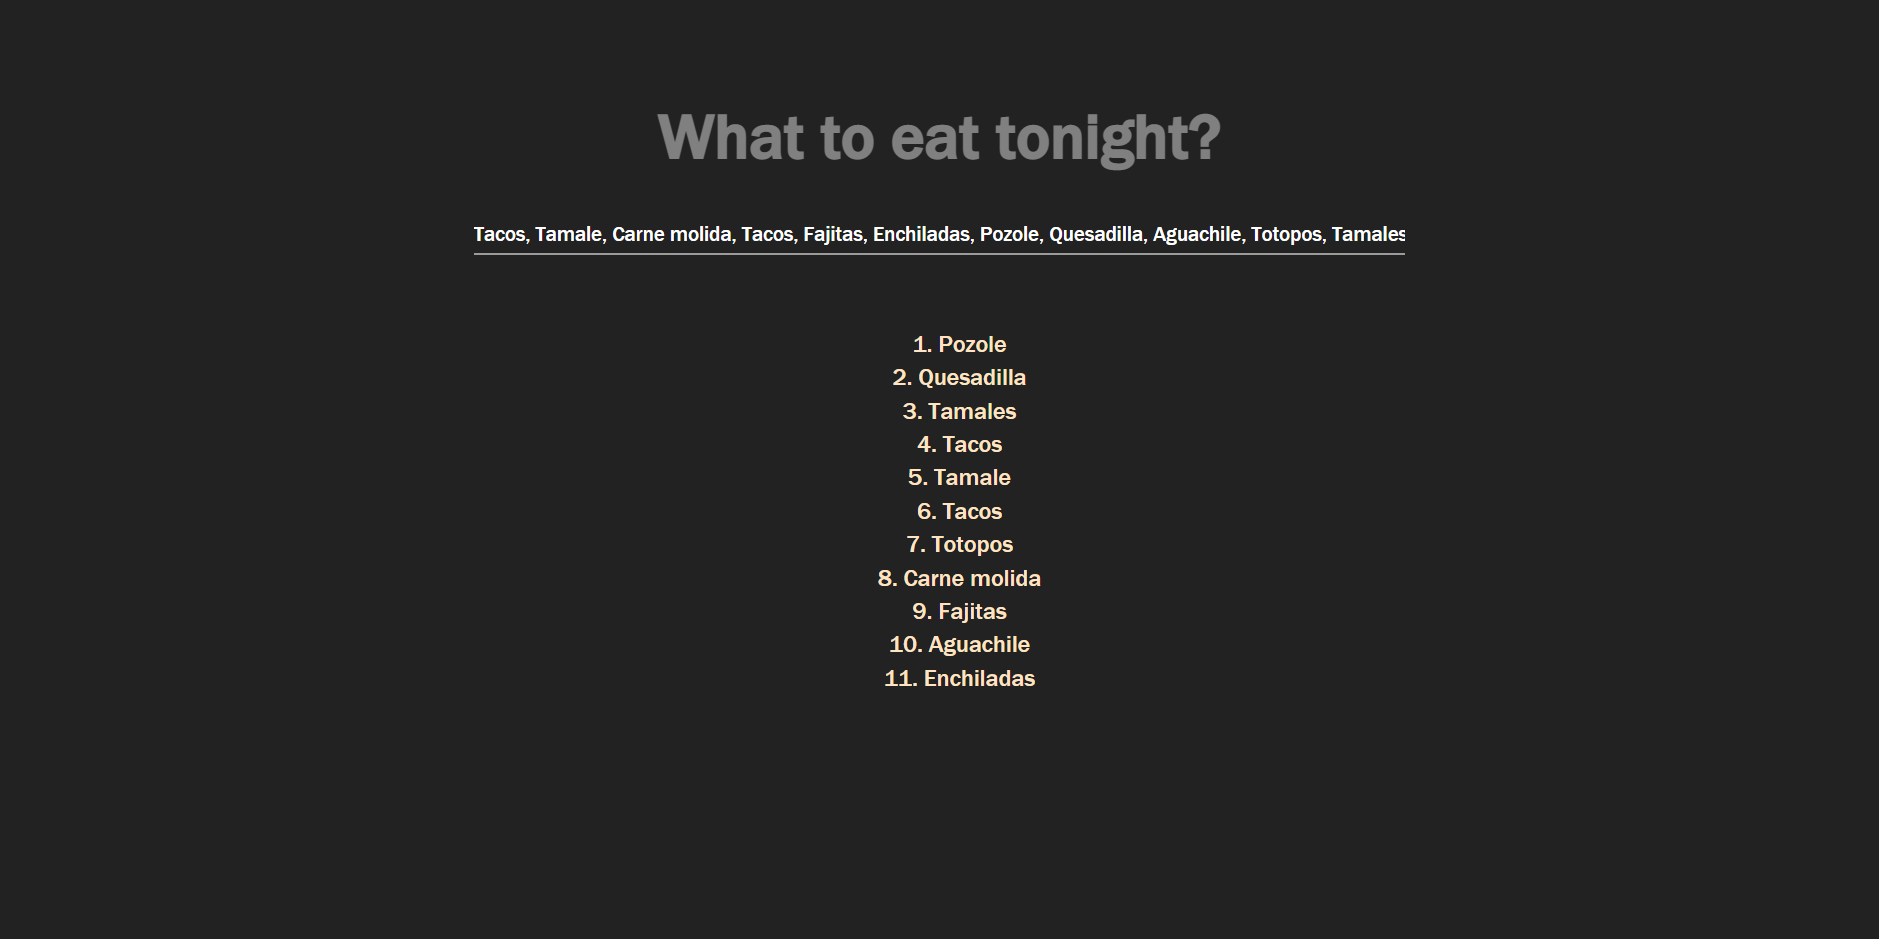
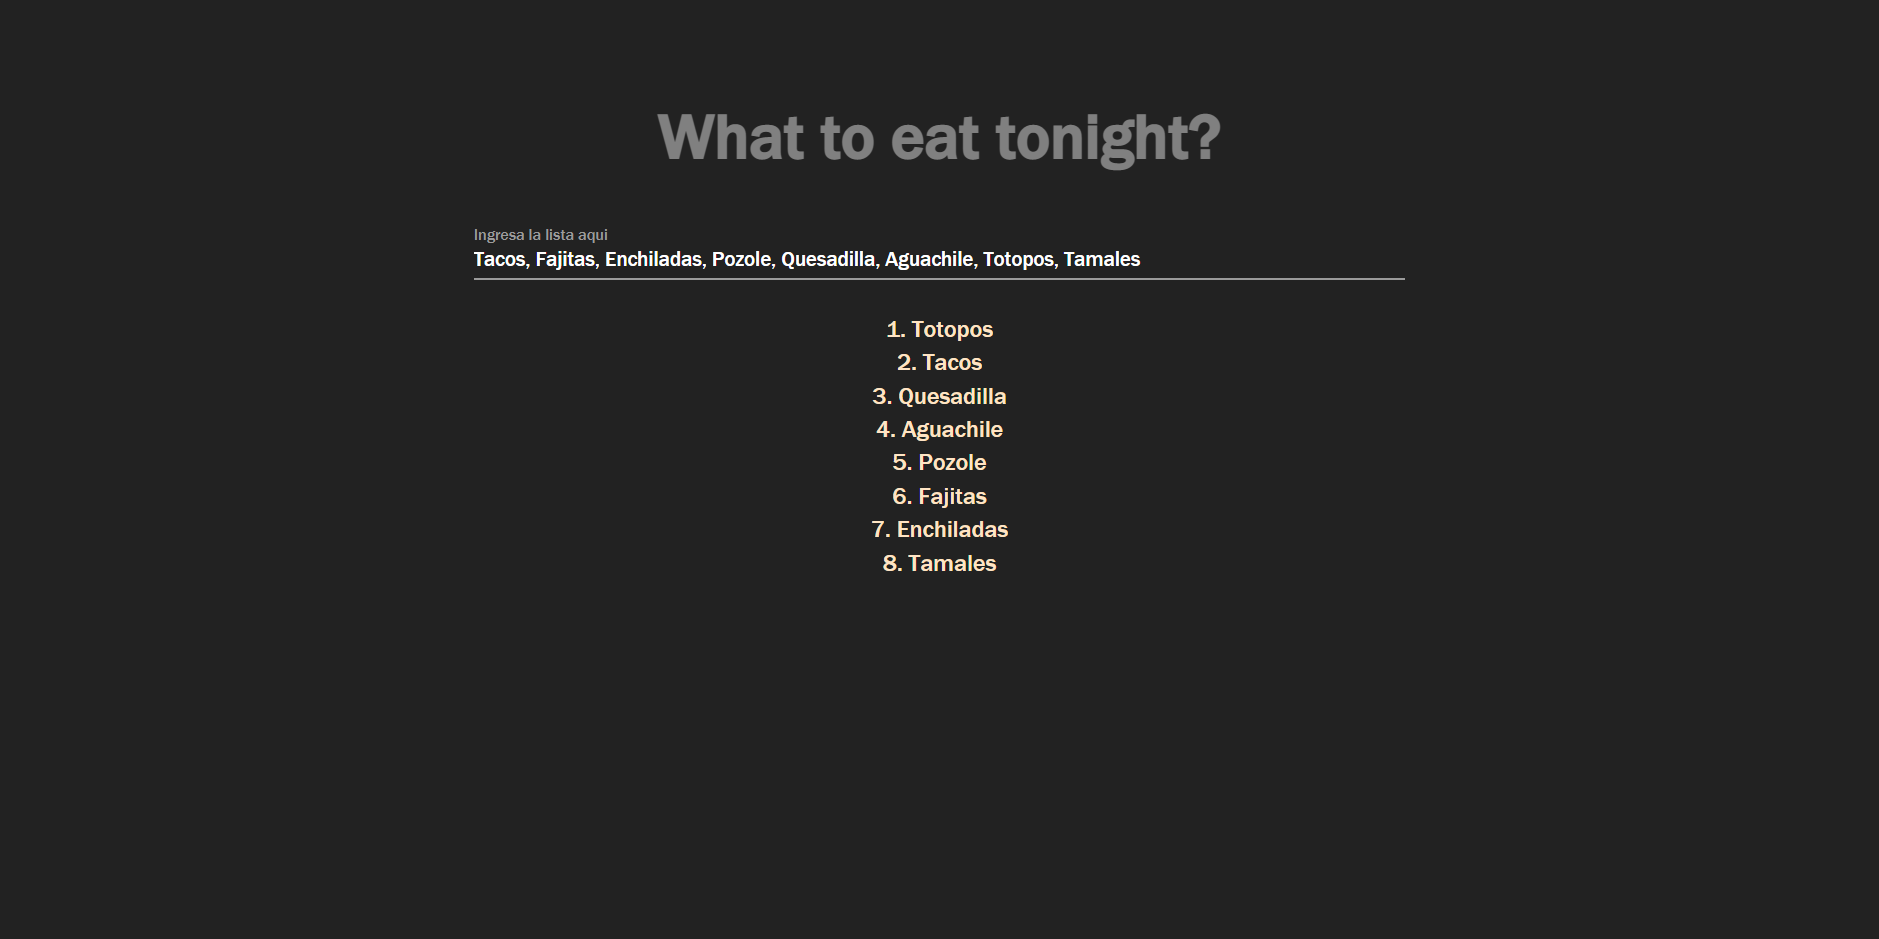
Css and readme.md updated

Changed region(s): [[0.463, 0.3397, 0.5556, 0.7412], [0.2469, 0.2471, 0.7408, 0.3088]]

diff --git a/src/style/components/home.scss b/src/style/components/home.scss
@@ -61,18 +61,15 @@ body {
 
 label {
     position: absolute;
-    top: 1;
-    font-size: 1.3rem;
+    top: 0;
+    font-size: 1rem;
     transition: $transition;
     color: $gray;
 }
   
 input:focus {
     ~ label {
-        position: absolute;
-        top: 0;
       transition: $transition;
-      font-size: 1rem;
       color: $primary;
       font-weight:700;    
     }

diff --git a/README.md b/README.md
@@ -1,3 +1,6 @@
 # What to eat tonight
 
 What to eat tonight es una pagina donde puedes ingresar tu lista de comidas para la semana y obtener un lista desordenada con esas comidas y evitarte el tener que pensar que comer cada dia.
+
+## Ejemplo
+![example1](./img/web-example.png)
